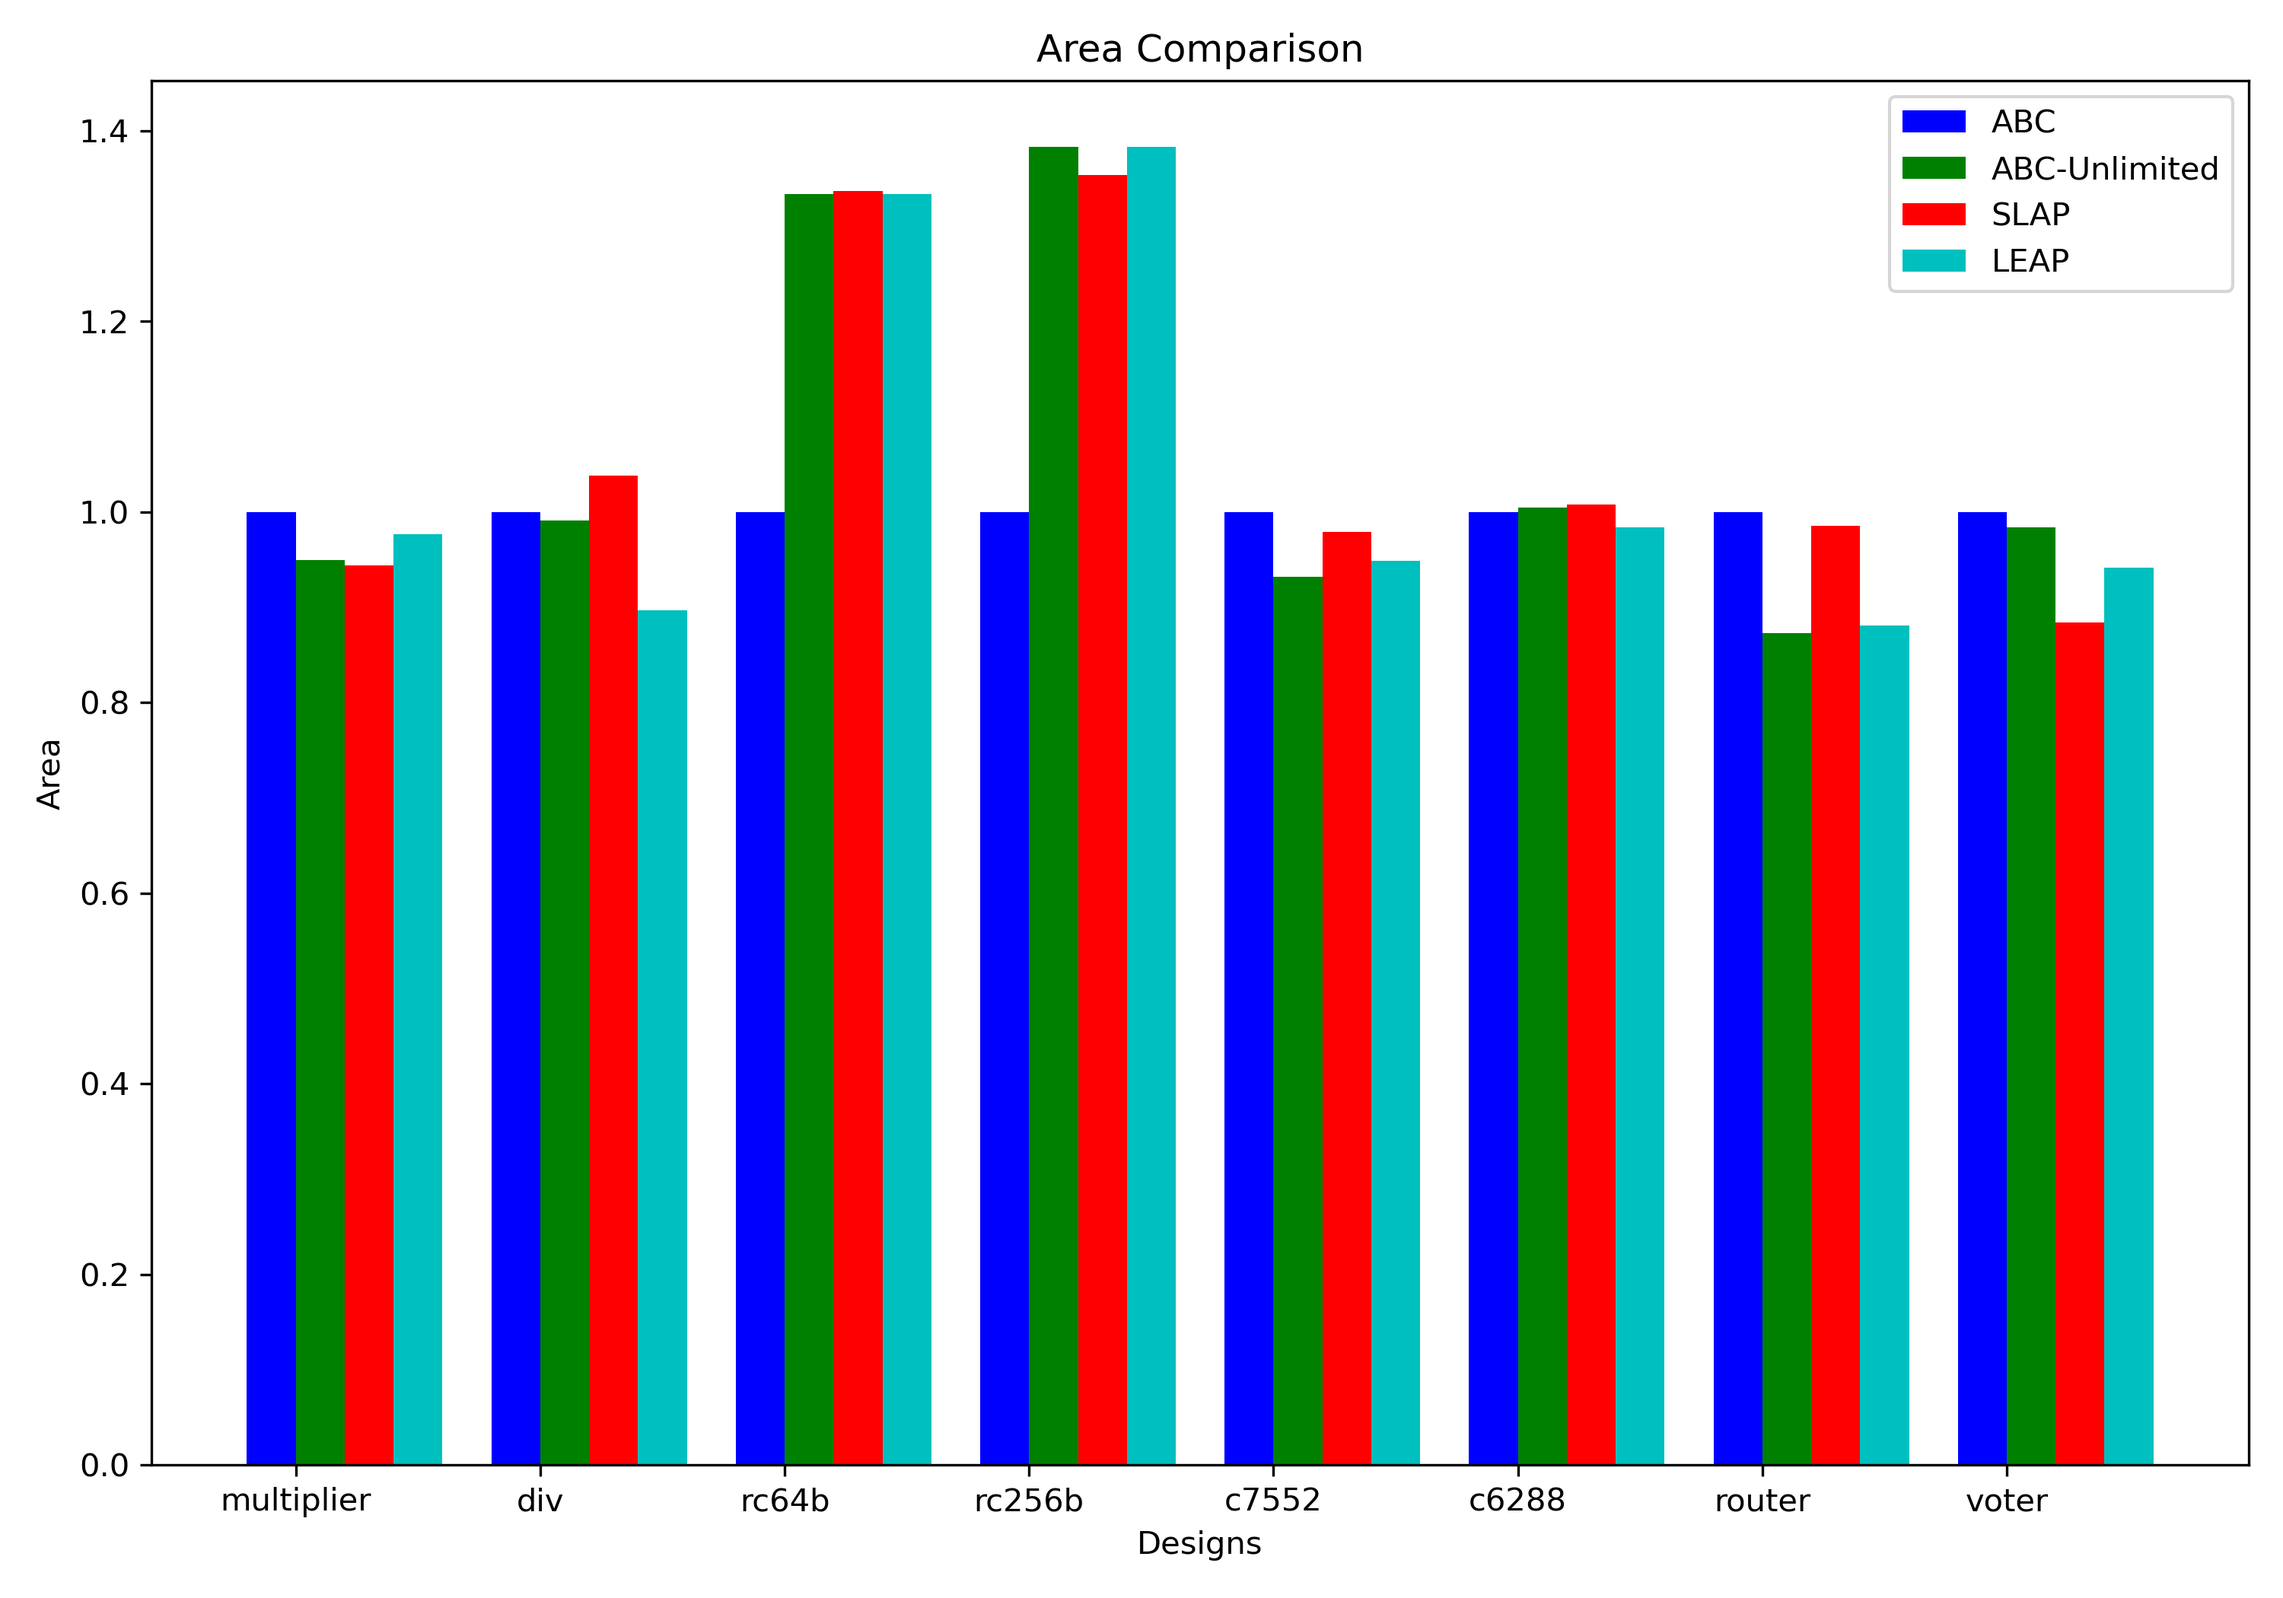
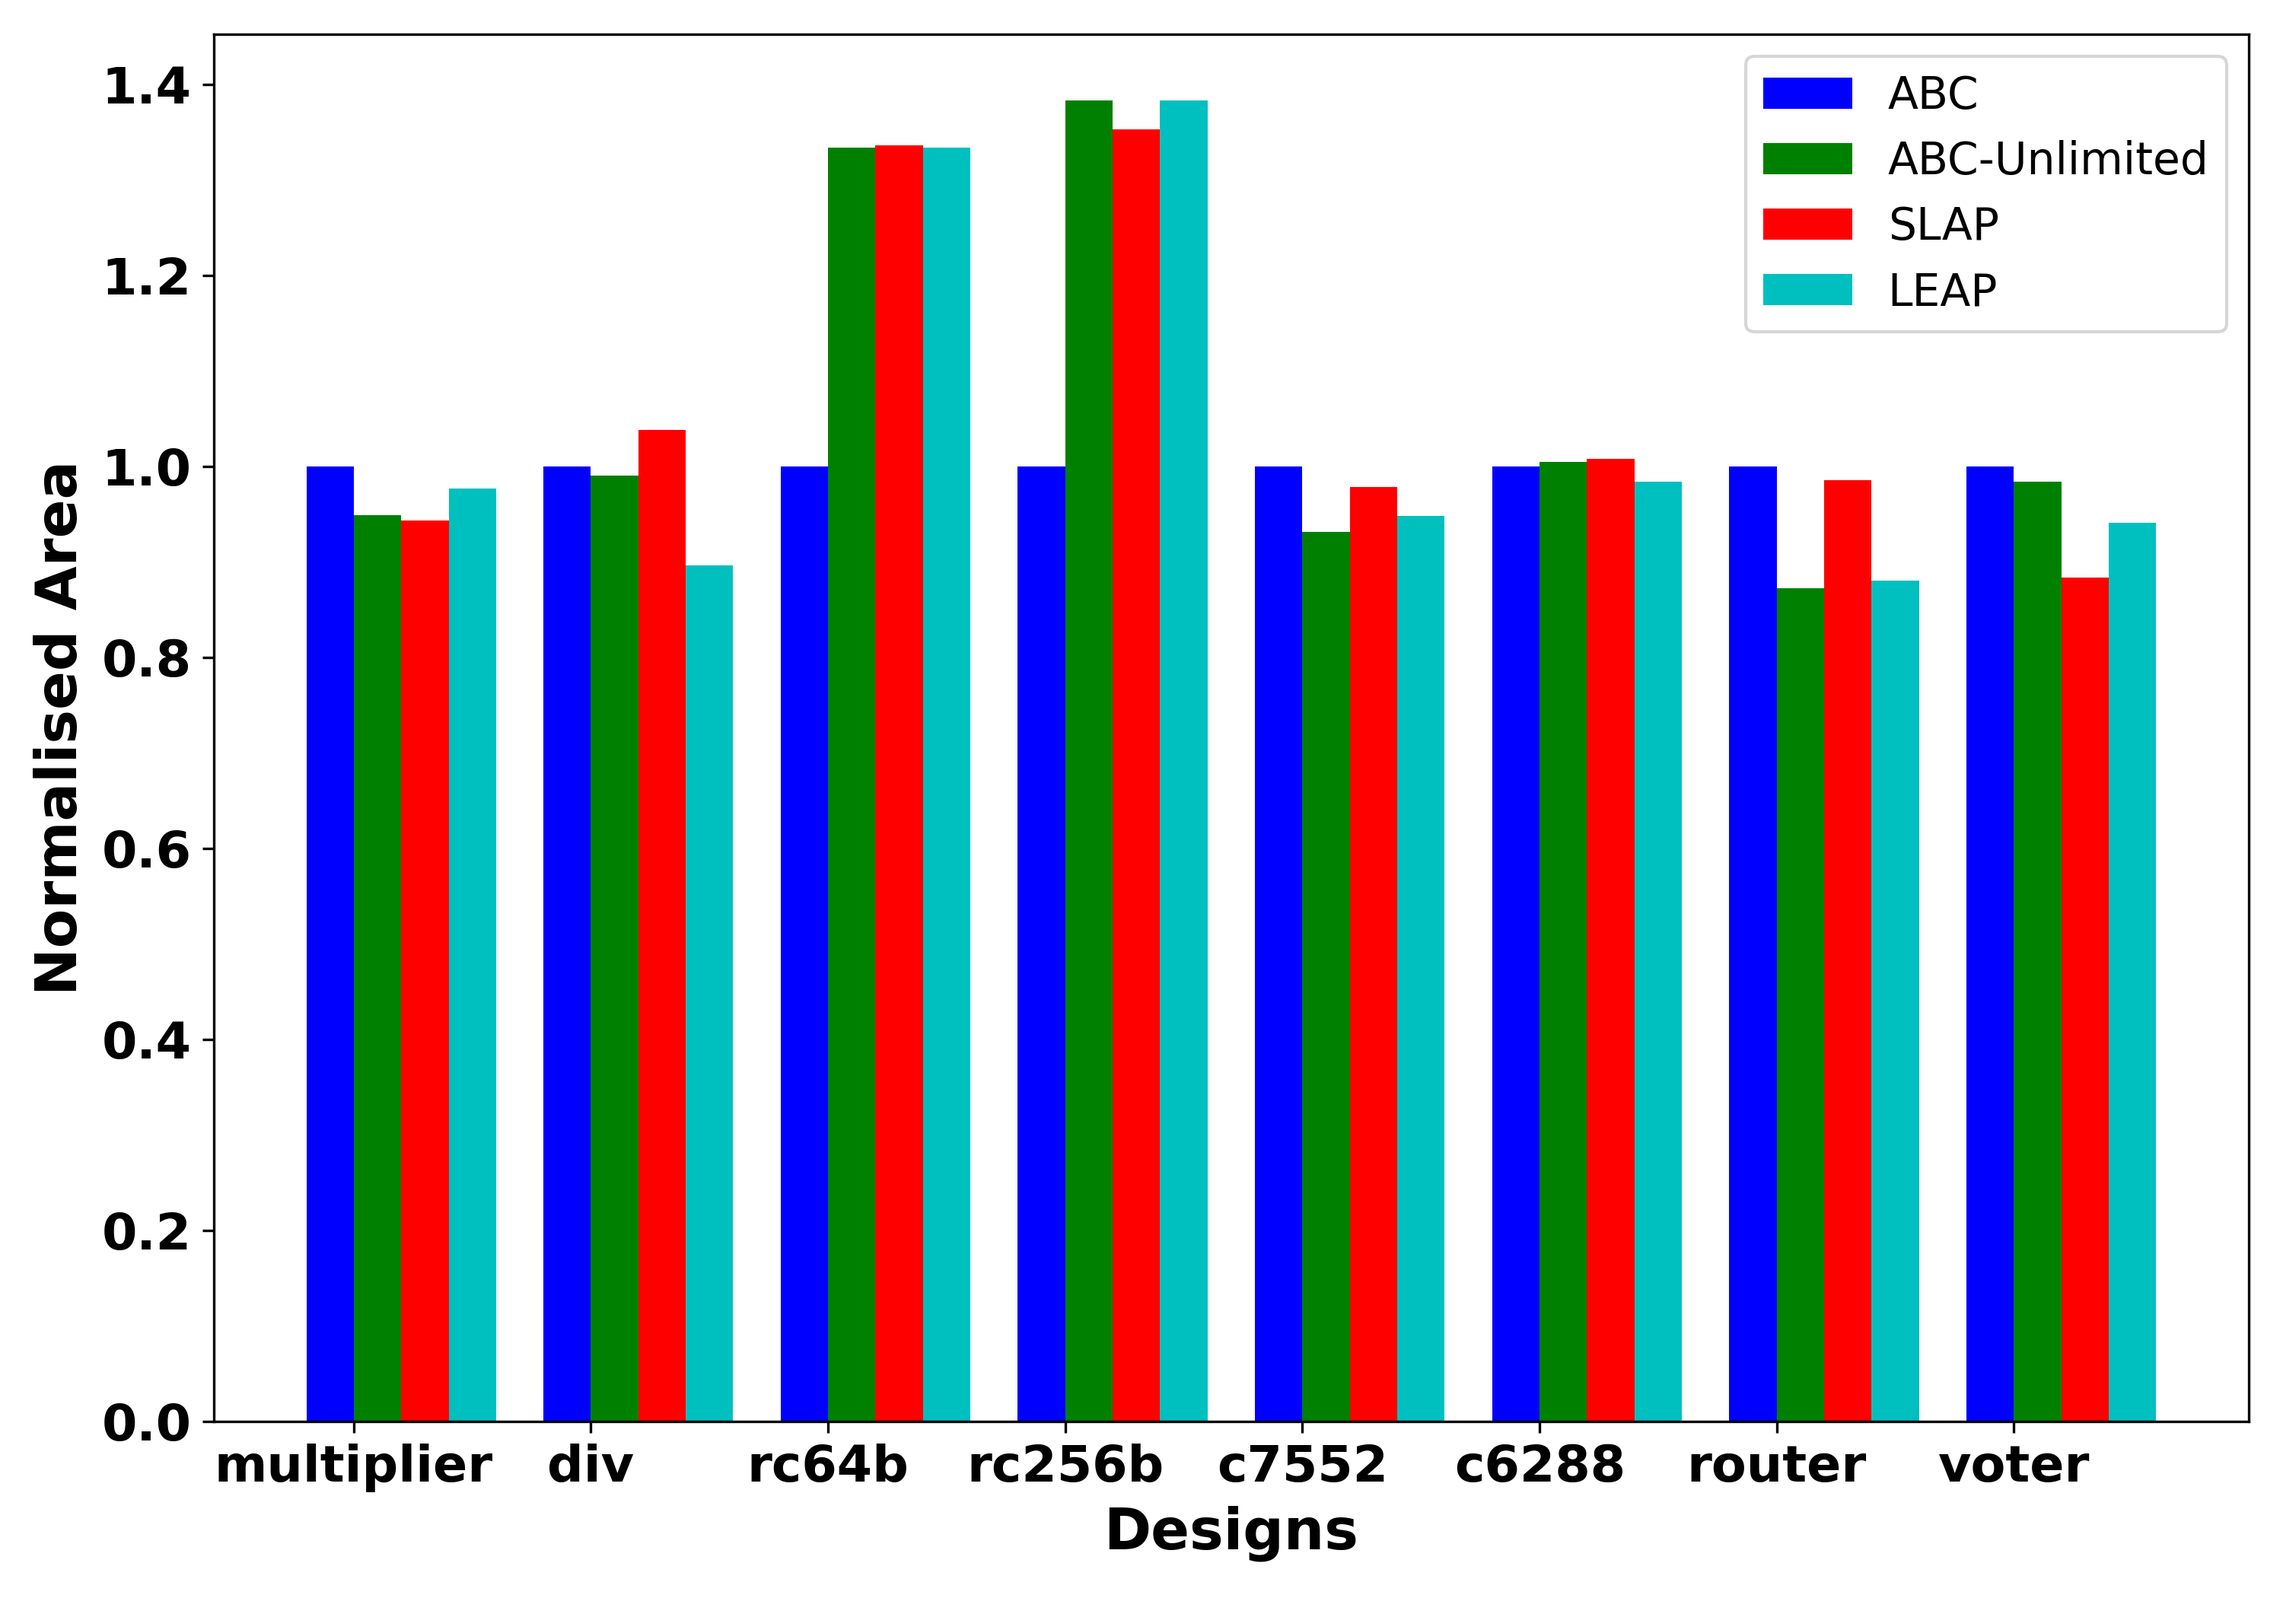
Updated plots

diff --git a/cut-sol/plots/bar_plot.py b/cut-sol/plots/bar_plot.py
@@ -1,6 +1,6 @@
 import matplotlib.pyplot as plt
 import numpy as np
-
+from matplotlib.font_manager import FontProperties
 
 designs = ['multiplier', 'div', 'rc64b', 'rc256b', 'c7552', 'c6288', 'router', 'voter']
 methods = ['ABC', 'ABC-Unlimited', 'SLAP', 'LEAP']
@@ -61,14 +61,17 @@ bar_width = 0.2
 index = np.arange(len(designs))
 
 for i, method in enumerate(methods):
-    ax.bar(index + i*bar_width, scaled_delays[:, i], bar_width, label=method, color=colors[i])
+    ax.bar(index + i*bar_width, scaled_cuts[:, i], bar_width, label=method, color=colors[i])
 
-ax.set_xlabel('Designs')
-ax.set_ylabel('Delay')
-ax.set_title('Delay Comparison')
+ax.set_xlabel('Designs', fontsize=18, fontweight='bold')
+ax.set_ylabel('Normalised Number of Cuts', fontsize=18, fontweight='bold')
+# ax.set_title('Delay Comparison', fontsize=20, fontweight='bold')
 ax.set_xticks(index + bar_width / 2)
-ax.set_xticklabels(designs)
-ax.legend()
+ax.set_xticklabels(designs, fontsize=16, fontweight='bold')
+font_properties = FontProperties(weight='bold', size=16)
+for label in ax.get_yticklabels():
+    label.set_fontproperties(font_properties)
+ax.legend(fontsize=14)
 
 plt.tight_layout()
-plt.savefig('delay_bar_chart.png', dpi=300)
+plt.savefig('cuts_bar_chart.png', dpi=300)
